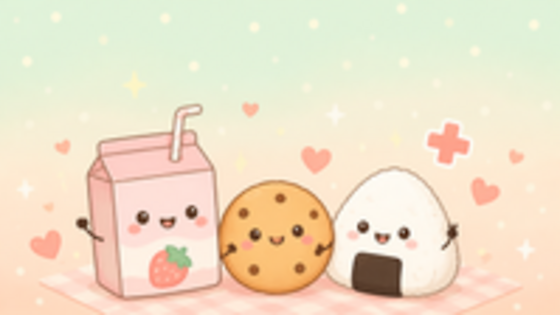
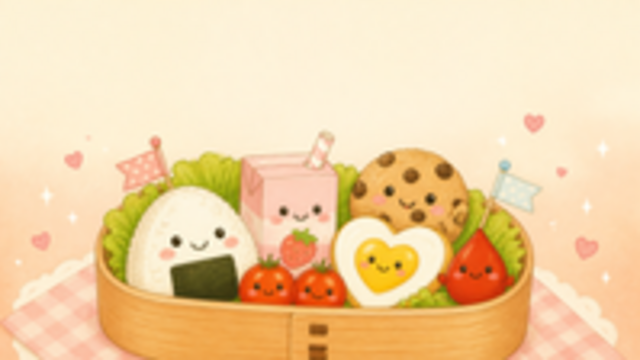
New cute bento cover; brighter playful theme; colored category rows; smarter cache
- ปกใหม่: กล่องเบนโตะตัวการ์ตูนออริจินัล (ข้าวปั้น/น้ำหวาน/คุกกี้/ไข่หัวใจ/หยดเลือดน่ารัก)
- ธีมหัวแอปไล่สีฟ้า-ชมพูสดใส, หมวดของมีสีประจำ (ชมพู/ส้ม/เขียว), chip มีสี
- sw: เรียกเน็ตก่อน (ได้ของใหม่) timeout 2.5 วิค่อยใช้แคช แก้ปัญหาเห็นของเก่าค้าง

Claude-Session: https://claude.ai/code/session_01LWfe2Lj2SjfrS1mu3BUEWe

diff --git a/supply/index.html b/supply/index.html
@@ -6,7 +6,7 @@
 <title>Supply BB</title>
 <meta name="description" content="บันทึกการเบิกของออกหน่วยรับบริจาคโลหิต ธนาคารเลือด โรงพยาบาลสุราษฎร์ธานี พร้อมใบสรุปงานพิมพ์ได้">
 <link rel="manifest" href="manifest.json">
-<meta name="theme-color" content="#06b6d4" media="(prefers-color-scheme: light)">
+<meta name="theme-color" content="#22c1dc" media="(prefers-color-scheme: light)">
 <meta name="theme-color" content="#0e7490" media="(prefers-color-scheme: dark)">
 <meta name="mobile-web-app-capable" content="yes">
 <meta name="apple-mobile-web-app-capable" content="yes">
@@ -18,7 +18,7 @@
 <link rel="stylesheet" href="https://fonts.googleapis.com/css2?family=Sarabun:wght@400;700&family=IBM+Plex+Sans+Thai:wght@400;500;600;700&display=swap">
 <style>
 :root{
-  --brand-a:#06b6d4; --brand-b:#3b82f6;
+  --brand-a:#22c1dc; --brand-b:#f472b6;
   --navy:#0e7490; --navy2:#0b5566; --acc:#f43f5e; --accink:#fff;
   --bg:#f1f5f9; --card:#fff; --ink:#0f172a; --mute:#64748b; --line:#e2e8f0; --head:#f8fafc;
   --ok:#10b981; --okbg:#d1fae5; --warn:#f59e0b; --water:#0ea5e9; --snack:#f59e0b; --rice:#10b981;
@@ -26,9 +26,9 @@
   color-scheme:light; padding-top:env(safe-area-inset-top,0); padding-bottom:env(safe-area-inset-bottom,0);
 }
 @media (prefers-color-scheme:dark){:root:not([data-theme="light"]){
-  --brand-a:#0e7490;--brand-b:#1e40af;--navy:#0b3a46;--navy2:#07222b;--acc:#fb7185;--accink:#2a0510;--bg:#0b1220;--card:#131c2b;--ink:#e6edf6;--mute:#93a4bd;--line:#273449;--head:#1b2740;--ok:#34d399;--okbg:#0f3d2e;--warn:#fbbf24;--water:#38bdf8;--snack:#fbbf24;--rice:#34d399;--shadow:0 1px 2px rgba(0,0,0,.35),0 6px 18px rgba(0,0,0,.3);color-scheme:dark;
+  --brand-a:#0e7490;--brand-b:#9d174d;--navy:#0b3a46;--navy2:#07222b;--acc:#fb7185;--accink:#2a0510;--bg:#0b1220;--card:#131c2b;--ink:#e6edf6;--mute:#93a4bd;--line:#273449;--head:#1b2740;--ok:#34d399;--okbg:#0f3d2e;--warn:#fbbf24;--water:#38bdf8;--snack:#fbbf24;--rice:#34d399;--shadow:0 1px 2px rgba(0,0,0,.35),0 6px 18px rgba(0,0,0,.3);color-scheme:dark;
 }}
-:root[data-theme="dark"]{--brand-a:#0e7490;--brand-b:#1e40af;--navy:#0b3a46;--navy2:#07222b;--acc:#fb7185;--accink:#2a0510;--bg:#0b1220;--card:#131c2b;--ink:#e6edf6;--mute:#93a4bd;--line:#273449;--head:#1b2740;--ok:#34d399;--okbg:#0f3d2e;--warn:#fbbf24;--water:#38bdf8;--snack:#fbbf24;--rice:#34d399;--shadow:0 1px 2px rgba(0,0,0,.35),0 6px 18px rgba(0,0,0,.3);color-scheme:dark}
+:root[data-theme="dark"]{--brand-a:#0e7490;--brand-b:#9d174d;--navy:#0b3a46;--navy2:#07222b;--acc:#fb7185;--accink:#2a0510;--bg:#0b1220;--card:#131c2b;--ink:#e6edf6;--mute:#93a4bd;--line:#273449;--head:#1b2740;--ok:#34d399;--okbg:#0f3d2e;--warn:#fbbf24;--water:#38bdf8;--snack:#fbbf24;--rice:#34d399;--shadow:0 1px 2px rgba(0,0,0,.35),0 6px 18px rgba(0,0,0,.3);color-scheme:dark}
 *{box-sizing:border-box}
 html,body{margin:0}
 img{max-width:100%}
@@ -64,7 +64,16 @@ main{max-width:900px;margin:0 auto;padding-left:max(16px,env(safe-area-inset-lef
 .field{display:flex;flex-direction:column;gap:6px;margin-bottom:14px}
 .field label{font-size:13px;font-weight:600;color:var(--mute);letter-spacing:.2px}
 .drow{display:grid;grid-template-columns:1fr 1.3fr 1fr;gap:8px}
-.catrow{display:flex;align-items:center;gap:12px;padding:12px;border:1px solid var(--line);border-radius:13px;background:var(--bg);margin-bottom:10px}
+.catrow{display:flex;align-items:center;gap:12px;padding:12px;border:1px solid var(--line);border-radius:14px;background:var(--bg);margin-bottom:10px}
+.catrow.cat-snack{background:color-mix(in srgb,var(--snack) 13%,var(--card));border-color:color-mix(in srgb,var(--snack) 35%,var(--line))}
+.catrow.cat-snack .cic{background:color-mix(in srgb,var(--snack) 22%,var(--card))}
+.catrow.cat-snack .cn b{color:var(--snack)}
+.catrow.cat-water{background:color-mix(in srgb,var(--water) 13%,var(--card));border-color:color-mix(in srgb,var(--water) 35%,var(--line))}
+.catrow.cat-water .cic{background:color-mix(in srgb,var(--water) 22%,var(--card))}
+.catrow.cat-water .cn b{color:var(--water)}
+.catrow.cat-rice{background:color-mix(in srgb,var(--rice) 13%,var(--card));border-color:color-mix(in srgb,var(--rice) 35%,var(--line))}
+.catrow.cat-rice .cic{background:color-mix(in srgb,var(--rice) 22%,var(--card))}
+.catrow.cat-rice .cn b{color:var(--rice)}
 .catrow .cic{width:44px;height:44px;border-radius:12px;display:grid;place-items:center;font-size:24px;flex:none;background:var(--card);border:1px solid var(--line)}
 .catrow .cn{flex:1;min-width:0}.catrow .cn b{display:block;font-size:15px}.catrow .cn span{font-size:12.5px;color:var(--mute)}
 .stepper{display:flex;flex:none}
@@ -85,6 +94,9 @@ main{max-width:900px;margin:0 auto;padding-left:max(16px,env(safe-area-inset-lef
 .rec .meta{font-size:12.5px;color:var(--mute);margin-top:2px}
 .chips{display:flex;gap:6px;flex-wrap:wrap;margin-top:9px}
 .chip{display:inline-flex;align-items:center;gap:5px;font-size:13px;font-weight:600;padding:4px 10px;border-radius:999px;background:var(--bg);border:1px solid var(--line)}
+.chip.chip-snack{background:color-mix(in srgb,var(--snack) 14%,var(--card));border-color:color-mix(in srgb,var(--snack) 35%,var(--line))}
+.chip.chip-water{background:color-mix(in srgb,var(--water) 14%,var(--card));border-color:color-mix(in srgb,var(--water) 35%,var(--line))}
+.chip.chip-rice{background:color-mix(in srgb,var(--rice) 14%,var(--card));border-color:color-mix(in srgb,var(--rice) 35%,var(--line))}
 .rec .tot{flex:none;text-align:right}.rec .tot .n{font-size:20px;font-weight:800;font-variant-numeric:tabular-nums}.rec .tot .l{font-size:11px;color:var(--mute)}
 .rec .acts{display:flex;gap:6px;margin-top:10px;flex-wrap:wrap}
 .iconbtn{border:1px solid var(--line);background:var(--card);border-radius:9px;padding:6px 11px;font-size:13px;font-weight:600;color:var(--mute);display:inline-flex;gap:5px;align-items:center}
@@ -248,7 +260,7 @@ function getDateISO(){var d=+$('#d_day').value,m=+$('#d_mon').value,y=(+$('#d_ye
 
 /* steppers */
 (function(){var wrap=$('#catRows');
-  CATS.forEach(function(c){var row=el('div','catrow');
+  CATS.forEach(function(c){var row=el('div','catrow cat-'+c.key);
     row.innerHTML='<div class="cic">'+c.icon+'</div><div class="cn"><b>'+c.name+'</b><span>หน่วย: '+c.unit+'</span></div>'+
       '<div class="stepper"><button type="button" data-step="-1" data-k="'+c.key+'" aria-label="ลด'+c.name+'">−</button><input type="number" id="q_'+c.key+'" min="0" value="0" inputmode="numeric" aria-label="จำนวน'+c.name+'"><button type="button" data-step="1" data-k="'+c.key+'" aria-label="เพิ่ม'+c.name+'">+</button></div>';
     wrap.appendChild(row)});
@@ -301,7 +313,7 @@ function lineMsg(r){var p=String(r.date).split('-');var dd=+p[2],mm=+p[1],yy=((+
 /* history */
 function renderHistory(){var wrap=$('#histWrap');wrap.innerHTML='';refreshPlaces();
   if(!records.length){wrap.appendChild(emptyBox('🗂','ยังไม่มีประวัติการเบิก','กดแท็บ “บันทึกเบิก” เพื่อเพิ่มรายการแรก'));return}
-  records.forEach(function(r){var rec=el('div','rec');var chips='';CATS.forEach(function(c){chips+='<span class="chip">'+c.icon+' '+c.name+' <b class="tnum">'+num(r[c.key])+'</b></span>'});(r.extra||[]).forEach(function(x){if(x.n)chips+='<span class="chip">📦 '+esc(x.n)+' <b class="tnum">'+num(x.q)+'</b></span>'});
+  records.forEach(function(r){var rec=el('div','rec');var chips='';CATS.forEach(function(c){chips+='<span class="chip chip-'+c.key+'">'+c.icon+' '+c.name+' <b class="tnum">'+num(r[c.key])+'</b></span>'});(r.extra||[]).forEach(function(x){if(x.n)chips+='<span class="chip">📦 '+esc(x.n)+' <b class="tnum">'+num(x.q)+'</b></span>'});
     rec.innerHTML='<div class="date"><div class="d tnum">'+(String(r.date).split("-")[2]||"?")+'</div><div class="my">'+monthShort(r.date)+'</div></div>'+
       '<div class="body"><div class="place">📍 <span></span></div><div class="meta"></div><div class="chips">'+chips+'</div>'+
       '<div class="acts"><button class="iconbtn line" data-line="'+r.id+'">💬 คัดลอก LINE</button><button class="iconbtn" data-edit="'+r.id+'">✏ แก้ไข</button><button class="iconbtn danger" data-del="'+r.id+'">🗑 ลบ</button></div><div class="confirm-slot"></div></div>'+

diff --git a/supply/sw.js b/supply/sw.js
@@ -1,5 +1,5 @@
 /* Service worker สำหรับ "เบิกของออกหน่วย" (PWA) — cache app shell */
-const VERSION = 'v7';
+const VERSION = 'v8';
 const CACHE = 'supply-bb-' + VERSION;
 const SHELL = ['./', './index.html', './manifest.json', './garuda.png', './cover.png'];
 
@@ -18,12 +18,22 @@ self.addEventListener('fetch', function (e) {
   if (req.method !== 'GET') return;
   var url = new URL(req.url);
   if (req.mode === 'navigate') {
-    // แสดงจากแคชทันที (เร็ว) แล้วอัปเดตเบื้องหลังสำหรับครั้งถัดไป
-    e.respondWith(caches.match('./index.html').then(function (cached) {
-      var net = fetch(req).then(function (res) {
-        var copy = res.clone(); caches.open(CACHE).then(function (c) { c.put('./index.html', copy); }); return res;
-      }).catch(function () { return cached; });
-      return cached || net;
+    // เรียกเน็ตก่อน (ได้ของใหม่) แต่ถ้าช้าเกิน 2.5 วิ ใช้แคชทันที (ไม่ค้าง)
+    e.respondWith(new Promise(function (resolve) {
+      var settled = false;
+      var timer = setTimeout(function () {
+        if (settled) return; settled = true;
+        caches.match('./index.html').then(function (c) { resolve(c || fetch(req)); });
+      }, 2500);
+      fetch(req).then(function (res) {
+        if (settled) { var c2 = res.clone(); caches.open(CACHE).then(function (c) { c.put('./index.html', c2); }); return; }
+        settled = true; clearTimeout(timer);
+        var copy = res.clone(); caches.open(CACHE).then(function (c) { c.put('./index.html', copy); });
+        resolve(res);
+      }).catch(function () {
+        if (settled) return; settled = true; clearTimeout(timer);
+        caches.match('./index.html').then(function (c) { resolve(c || caches.match('./')); });
+      });
     }));
     return;
   }
